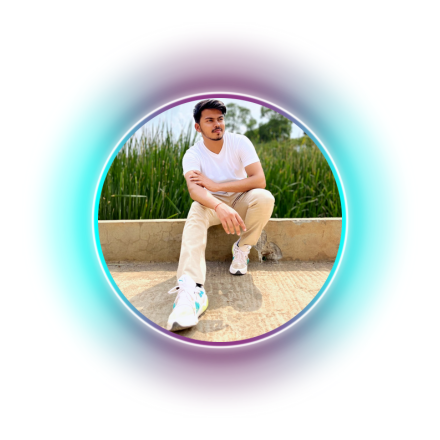
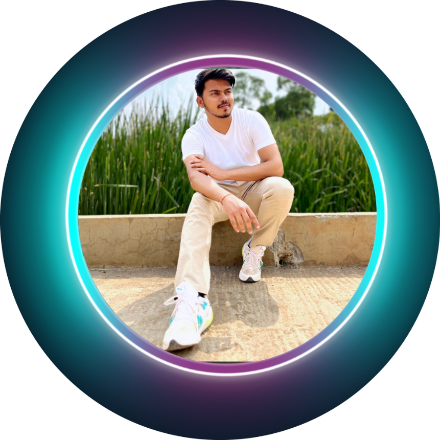
about me page added

diff --git a/Index.html b/Index.html
@@ -39,6 +39,18 @@
         <span class="home-imgHover"></span>
     </section>
 
+    <section class="about" id="about">
+        <div class="about-img">
+           <img src="profile_img.png">
+        </div>
+        <div class="about-text">
+            <h2>About<span>Me</span></h2>
+            <h4>Software Engineer!</h4>
+            <p>Lorem ipsum dolor sit amet consectetur, adipisicing elit. Illo, labore reprehenderit? Cum nesciunt at animi? Accusantium modi praesentium hic aliquid, debitis architecto amet laudantium, perferendis, cumque possimus omnis optio! Voluptatem nostrum adipisci tempore sequi. Doloremque perspiciatis sunt voluptates quod vero perferendis quibusdam, quam molestias consequatur harum, laudantium, ad error consectetur magnam eligendi fugit odio soluta! Perferendis ad ullam quisquam provident praesentium. Neque temporibus ea voluptatum. Repellendus corrupti ratione fugiat quam repudiandae, modi, veniam aut sequi quod dicta, hic nobis commodi facilis recusandae! Officia, quo reiciendis non ipsa voluptatibus porro necessitatibus nihil, eveniet sint dignissimos rem veritatis ad numquam nemo alias!</p>
+            <a href="#" class="btn-box">More About Me</a>
+        </div>
+   </section>
+
     <script src="main.js"></script>
 </body>
 </html>

diff --git a/stylesheet.css b/stylesheet.css
@@ -7,6 +7,7 @@
 
 body {
     color: #ededed;
+    background: #081b29;
 }
 
 .header {
@@ -15,7 +16,7 @@ body {
     left: 0;
     width: 100%;
     padding: 20px 10%;
-    background: transparent;
+    background: #051129;
     display: flex;
     justify-content: space-between;
     align-items: center;
@@ -79,7 +80,7 @@ body {
     margin-bottom: 30px;
     animation: slideTop 1s ease forwards;
     animation-delay: .7s;
-    
+
 }
 
 .home-content h3 span {
@@ -149,6 +150,51 @@ body {
     0 0 25px cyan, 0 0 50px cyan,
     0 0 100px cyan, 0 0 200px cyan
 }
+
+.about {
+    display: grid;
+    grid-template-columns: repeat(2, 1fr);
+    align-items: center;
+    gap: 1.5rem;
+}
+
+.about-img img {
+    padding: 10%;
+    margin: 10%;
+    max-width: 630px;
+    height: auto;
+    width: 70%;
+    border-radius: 8px;
+}
+
+.about-text h2{
+   font-size: 60px;
+}
+
+.about-text h2 span {
+    color: #0ef;
+}
+
+.about-text h4 {
+    font-size: 29px;
+    font-weight: 600;
+    color: #fff;
+    line-height: 1.7;
+    margin: 15px 0 30px;
+}
+
+.about-text p {
+    color: aliceblue;
+    font-size: 20px;
+    line-height: 1.4;
+    margin-bottom: 4rem;
+}
+
+
+
+
+
+
 
 @keyframes slideRight {
     0% {
